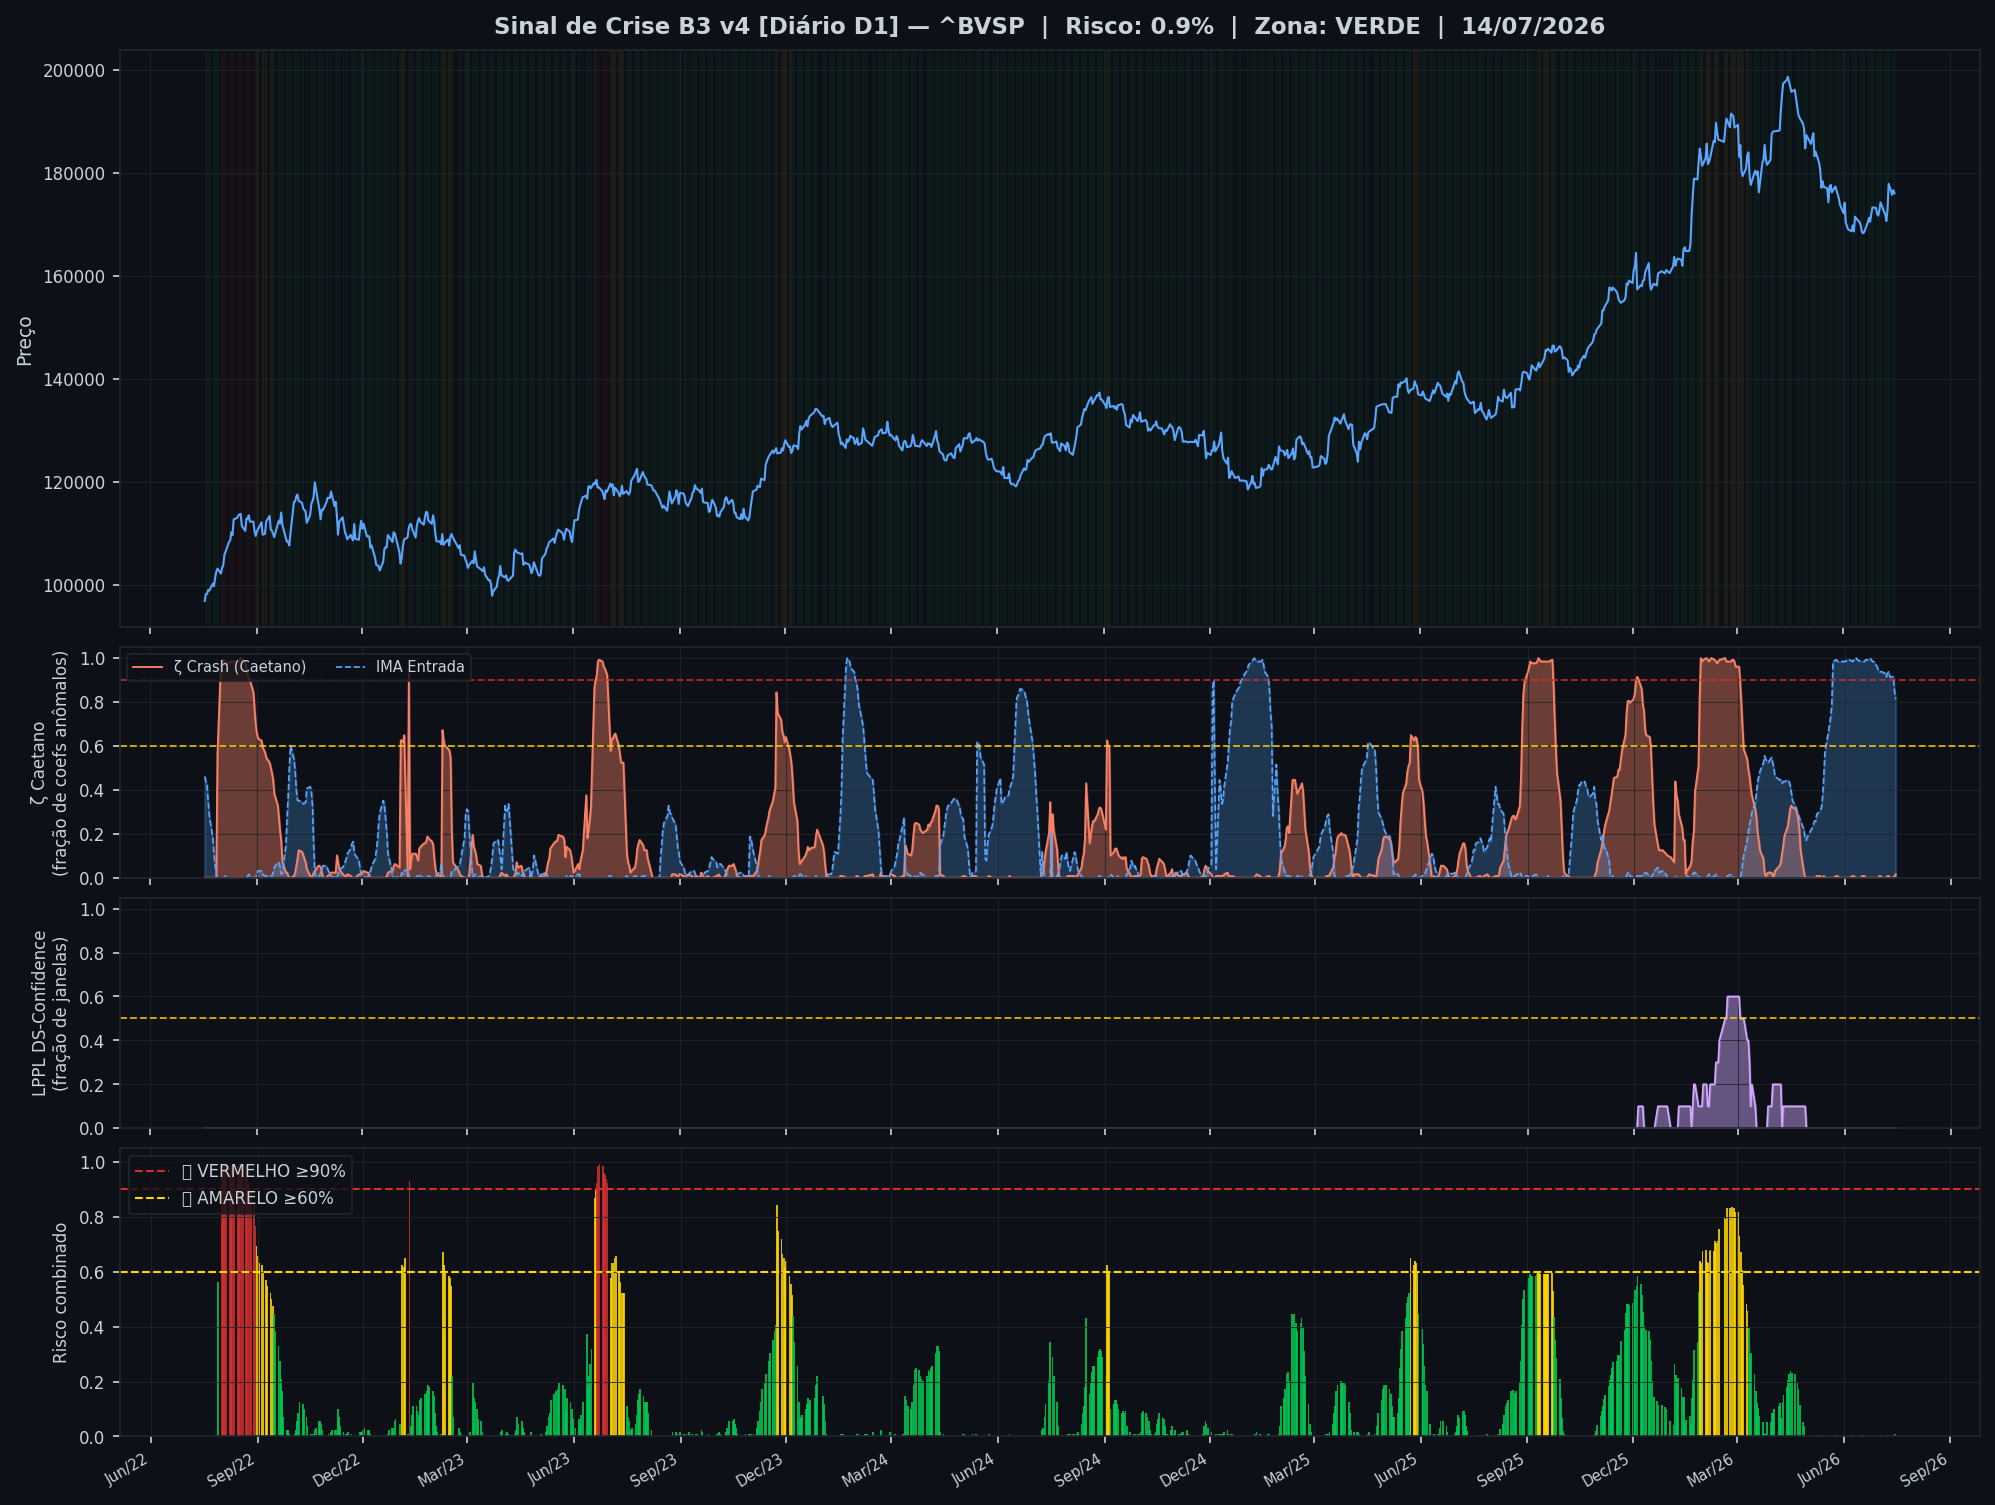
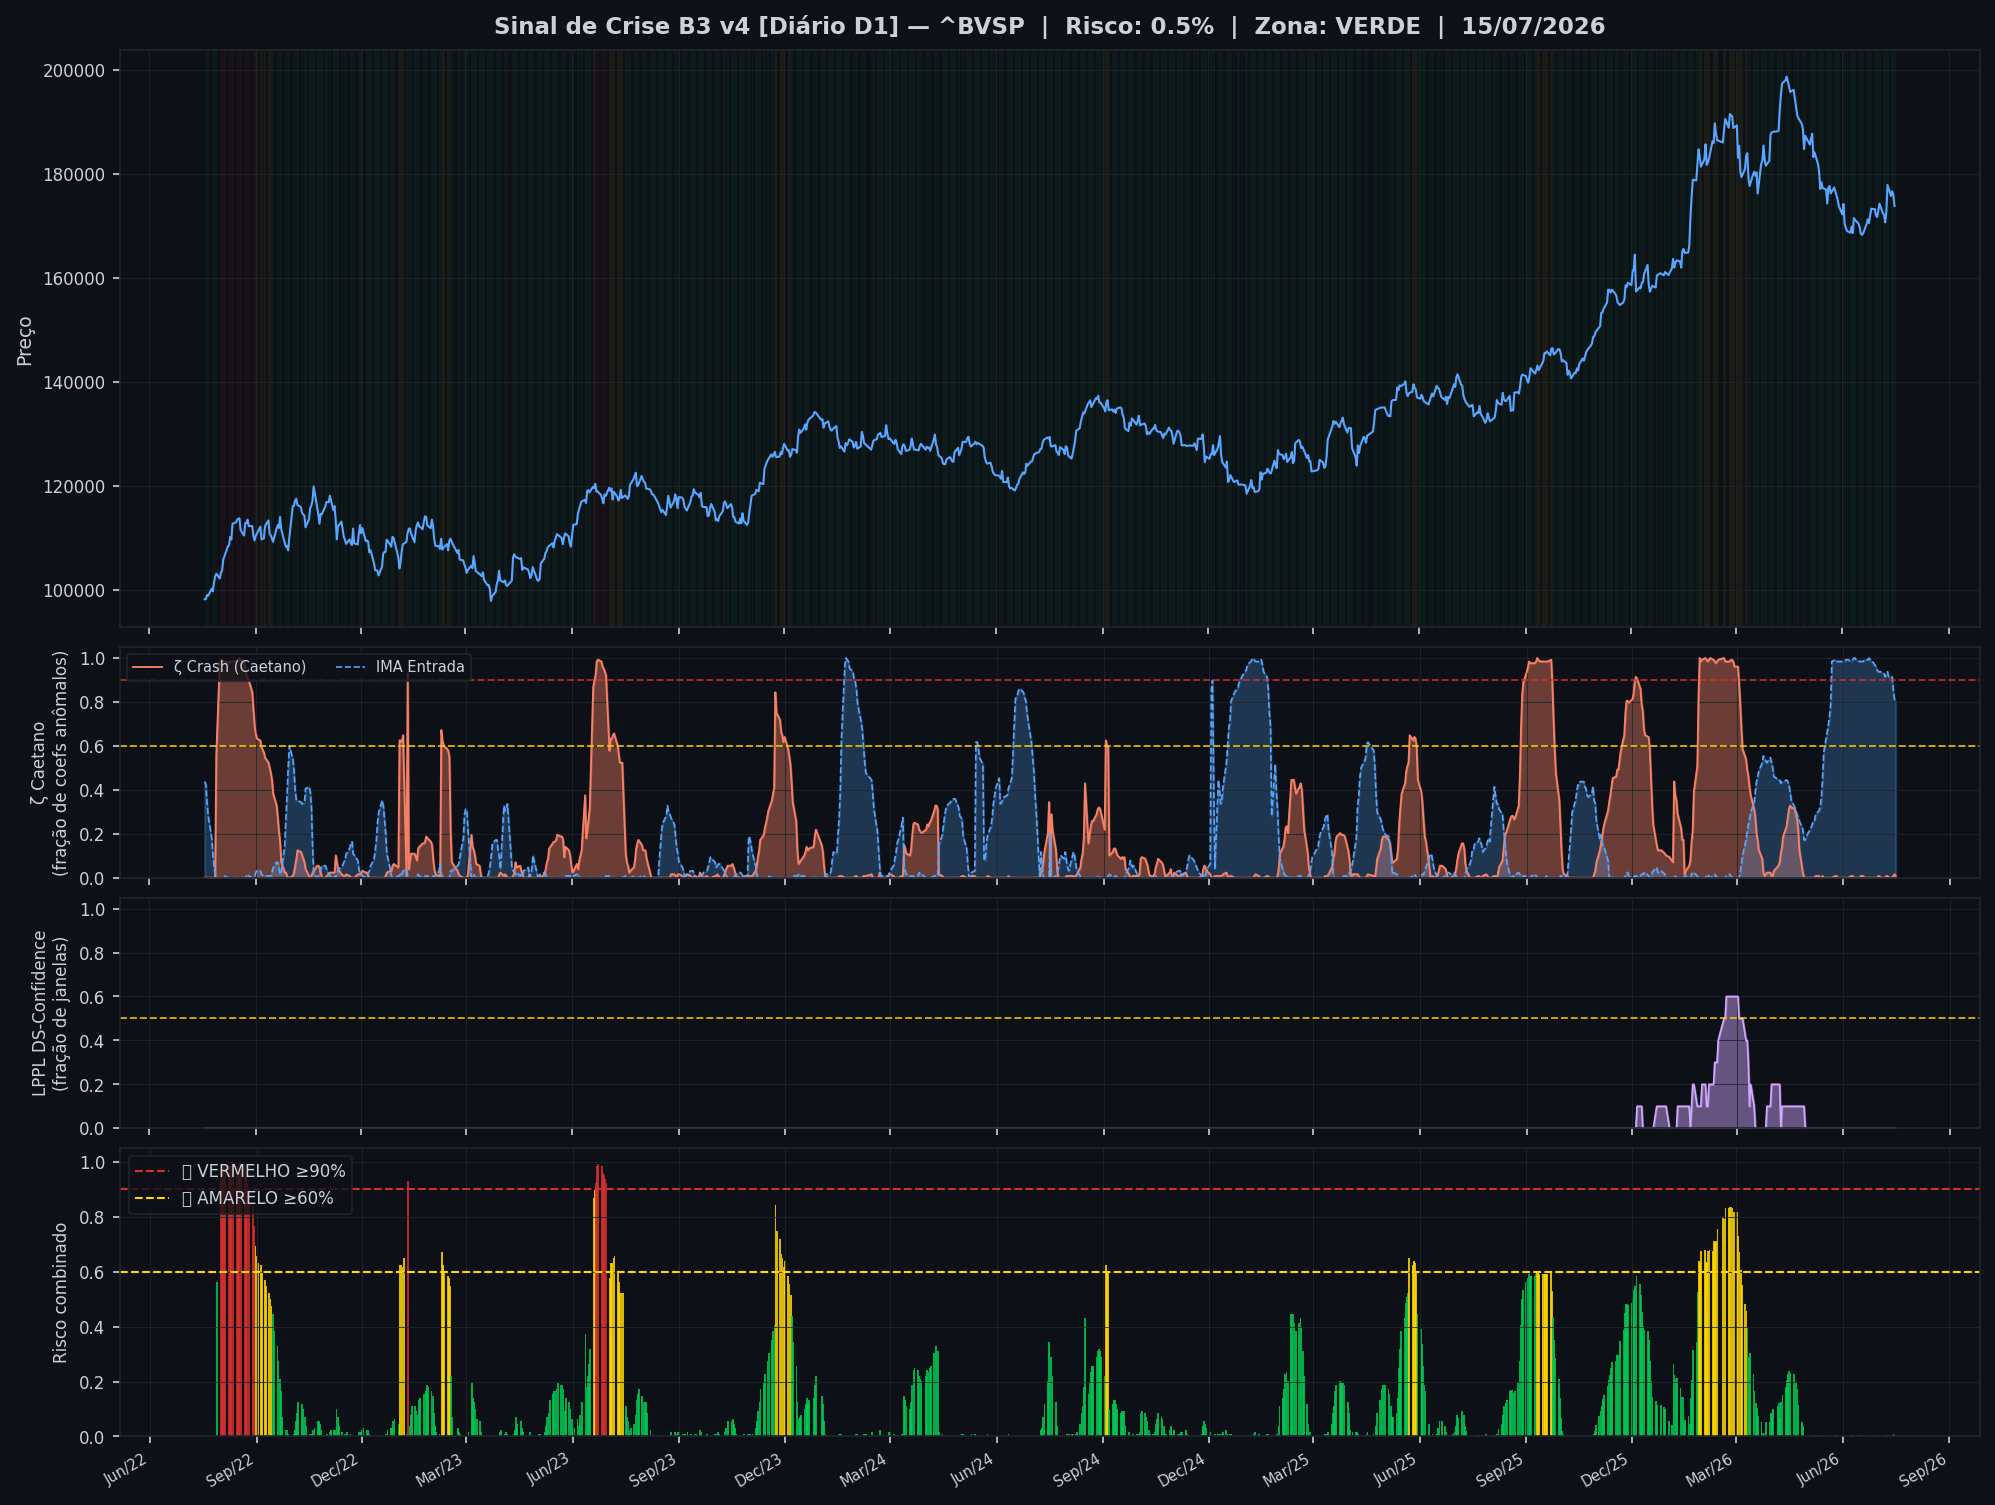
🤖 Auto: Sinal 16/07/2026 19:00

diff --git a/content/diario/2026-07-15.md b/content/diario/2026-07-15.md
@@ -1,0 +1,105 @@
+---
+title: "🟢 Diário 15/07/2026 — VERDE"
+date: 2026-07-16
+tags: [diario]
+---
+
+> [!success] 🟢 **VERDE** — Risco 0% · ＝ -0 p.p. vs leitura anterior
+> `░░░░░░░░░░░░░░░░░░░░`
+> Mercado sem sinais relevantes de estresse.
+
+
+| Indicador | Valor |
+|---|---|
+| 🔴 ζ Crash — severidade da queda em curso | **1%** |
+| 🔵 ζ Entrada — estrutura de fundo | 80% |
+| 🫧 LPPL DS-Confidence | 0% |
+| 📊 Ibovespa | 173.825 pts |
+
+![Gráfico do sinal](../graficos/sinal_diario.png)
+
+## Últimos 30 pregões
+
+| Data | Zona | Risco | IMA Crash | Entrada | LPPL |
+|---|---|---|---|---|---|
+| 2026-07-15 21:00 | 🟢 VERDE | **0%** | 1% | 80% | 0% |
+| 2026-07-14 21:00 | 🟢 VERDE | **1%** | 2% | 81% | 0% |
+| 2026-07-13 21:00 | 🟢 VERDE | **0%** | 1% | 85% | 0% |
+| 2026-07-12 21:00 | 🟢 VERDE | **0%** | 0% | 91% | 0% |
+| 2026-07-09 21:00 | 🟢 VERDE | **0%** | 0% | 91% | 0% |
+| 2026-07-08 21:00 | 🟢 VERDE | **0%** | 1% | 94% | 0% |
+| 2026-07-07 21:00 | 🟢 VERDE | **0%** | 1% | 93% | 0% |
+| 2026-07-06 21:00 | 🟢 VERDE | **0%** | 0% | 91% | 0% |
+| 2026-07-05 21:00 | 🟢 VERDE | **0%** | 0% | 93% | 0% |
+| 2026-07-02 21:00 | 🟢 VERDE | **0%** | 0% | 94% | 0% |
+| 2026-07-01 21:00 | 🟢 VERDE | **0%** | 1% | 94% | 0% |
+| 2026-06-30 21:00 | 🟢 VERDE | **0%** | 1% | 94% | 0% |
+| 2026-06-29 21:00 | 🟢 VERDE | **0%** | 0% | 95% | 0% |
+| 2026-06-28 21:00 | 🟢 VERDE | **0%** | 0% | 96% | 0% |
+| 2026-06-25 21:00 | 🟢 VERDE | **0%** | 0% | 98% | 0% |
+| 2026-06-24 21:00 | 🟢 VERDE | **0%** | 0% | 98% | 0% |
+| 2026-06-23 21:00 | 🟢 VERDE | **0%** | 0% | 99% | 0% |
+| 2026-06-22 21:00 | 🟢 VERDE | **0%** | 0% | 100% | 0% |
+| 2026-06-21 21:00 | 🟢 VERDE | **0%** | 0% | 99% | 0% |
+| 2026-06-18 21:00 | 🟢 VERDE | **0%** | 0% | 99% | 0% |
+| 2026-06-17 21:00 | 🟢 VERDE | **0%** | 1% | 98% | 0% |
+| 2026-06-16 21:00 | 🟢 VERDE | **0%** | 1% | 98% | 0% |
+| 2026-06-15 21:00 | 🟢 VERDE | **0%** | 1% | 98% | 0% |
+| 2026-06-14 21:00 | 🟢 VERDE | **0%** | 0% | 98% | 0% |
+| 2026-06-11 21:00 | 🟢 VERDE | **0%** | 0% | 99% | 0% |
+| 2026-06-10 21:00 | 🟢 VERDE | **0%** | 0% | 100% | 0% |
+| 2026-06-09 21:00 | 🟢 VERDE | **0%** | 0% | 100% | 0% |
+| 2026-06-08 21:00 | 🟢 VERDE | **0%** | 1% | 99% | 0% |
+| 2026-06-07 21:00 | 🟢 VERDE | **0%** | 1% | 98% | 0% |
+| 2026-06-04 21:00 | 🟢 VERDE | **0%** | 0% | 99% | 0% |
+
+## Monitor Multi-Ativo
+
+**0% dos ativos em tensão** (0🔴 0🟡) — quanto mais ativos disparam juntos, mais confiável o sinal.
+
+| Zona | Ativo | Setor | IMA Crash | IMA Entrada |
+|---|---|---|---|---|
+| 🟢 | **VALE** | Mineração | 0.0% | 53.9% |
+| 🟢 | **ITAUUNIBANCO** | Financeiro | 0.0% | 53.9% |
+| 🟢 | **PETROBRAS** | Petróleo | 0.0% | 53.9% |
+| 🟢 | **AXIA ENERGIA** | Energia | 0.0% | 53.9% |
+| 🟢 | **PETROBRAS** | Petróleo | 0.0% | 53.9% |
+| 🟢 | **BRADESCO** | Financeiro | 0.0% | 53.9% |
+| 🟢 | **SABESP** | Saneamento | 0.0% | 53.9% |
+| 🟢 | **ITAUSA** | Financeiro | 0.0% | 53.9% |
+| 🟢 | **B3** | Financeiro | 0.0% | 53.9% |
+| 🟢 | **BTGP BANCO** | Financeiro | 0.0% | 53.9% |
+| 🟢 | **AMBEV S/A** | Consumo | 0.0% | 53.9% |
+| 🟢 | **WEG** | Industrial | 0.0% | 53.9% |
+| 🟢 | **EMBRAER** | Outros | 0.0% | 53.9% |
+| 🟢 | **BRASIL** | Financeiro | 0.0% | 53.9% |
+| 🟢 | **ENEVA** | Energia | 0.0% | 53.9% |
+| 🟢 | **EQUATORIAL** | Energia | 0.0% | 53.9% |
+| 🟢 | **COPEL** | Energia | 0.0% | 53.9% |
+| 🟢 | **PRIO** | Petróleo | 0.0% | 53.9% |
+| 🟢 | **VIBRA** | Energia | 0.0% | 53.9% |
+| 🟢 | **LOCALIZA** | Aluguel | 0.0% | 53.9% |
+| 🟢 | **REDE D OR** | Saúde | 0.0% | 53.9% |
+| 🟢 | **ULTRAPAR** | Outros | 0.0% | 53.9% |
+| 🟢 | **GERDAU** | Siderurgia | 0.0% | 53.9% |
+| 🟢 | **SUZANO S.A.** | Papel/Celulose | 0.0% | 53.9% |
+| 🟢 | **BBSEGURIDADE** | Financeiro | 0.0% | 53.9% |
+| 🟢 | **TELEF BRASIL** | Outros | 0.0% | 53.9% |
+| 🟢 | **USD/BRL** | Câmbio | 0.0% | 42.2% |
+
+![Monitor multi-ativo](../graficos/multi_diario.png)
+
+*Página atualizada em 16/07/2026 19:00 BRT (leitura da barra de 2026-07-15 BRT).*
+
+> [!info]- Como interpretar (clique para expandir)
+> - **ζ Crash**: fração dos coeficientes wavelet acima do corte (Caetano & Yoneyama 2009). Escala absoluta: ζ=0,90 = 90% dos coeficientes anômalos — historicamente, quedas com ζ≥0,90 foram mais fundas e mais longas. **Mede a severidade do movimento em curso, não prevê o início da queda.**
+> - **ζ Entrada**: coeficientes negativos além do corte — estrutura de fundo, possível região de compra.
+> - **LPPL DS-Confidence**: fração de janelas (60–504 pregões) em que o modelo de bolha de Sornette produz um ajuste válido. 30% já é relevante; acima de 50% é forte evidência de estrutura de bolha.
+> - **Zonas com histerese**: o sinal só muda de zona ao cruzar o limiar de entrada, e só volta ao cruzar o de saída — evita flip-flop diário.
+
+
+---
+*Sinal de Crise B3 v4 · IMA Wavelet ([Caetano & Yoneyama, Physica-A 2007](https://doi.org/10.1016/j.physa.2007.03.054)) + LPPL DS-Confidence (Sornette, ETH-Zurich) · [Metodologia](metodologia) · [Histórico](historico)*
+
+> [!quote]- Aviso
+> Estudo acadêmico. Não constitui recomendação de investimento.

diff --git a/content/index.md b/content/index.md
@@ -8,19 +8,19 @@ tags: [home]
 
 Monitoramento diário e intraday do Ibovespa — **IMA Wavelet** (Prof. Marco Antonio Leonel Caetano, ITA/INSPER) + **LPPL DS-Confidence** (Prof. Didier Sornette, ETH-Zurich).
 
-*Última atualização: 16/07/2026 17:30 BRT · ^BVSP · Intraday 15min · v4*
+*Última atualização: 16/07/2026 19:00 BRT · ^BVSP · Diário D1 · v4*
 
-> [!success] 🟢 **VERDE** — Risco 0% · ＝ +0 p.p. vs leitura anterior
+> [!success] 🟢 **VERDE** — Risco 0% · ＝ -0 p.p. vs leitura anterior
 > `░░░░░░░░░░░░░░░░░░░░`
 > Mercado sem sinais relevantes de estresse.
 
 
 | Indicador | Valor |
 |---|---|
-| 🔴 ζ Crash — severidade da queda em curso | **0%** |
-| 🔵 ζ Entrada — estrutura de fundo | 79% |
+| 🔴 ζ Crash — severidade da queda em curso | **1%** |
+| 🔵 ζ Entrada — estrutura de fundo | 80% |
 | 🫧 LPPL DS-Confidence | 0% |
-| 📊 Ibovespa | 173.627 pts |
+| 📊 Ibovespa | 173.825 pts |
 
 **Multi-ativo:** 0% em tensão (0🔴 0🟡 de 27 ativos)
 
@@ -32,8 +32,13 @@ Monitoramento diário e intraday do Ibovespa — **IMA Wavelet** (Prof. Marco An
 
 | Data | Zona | Risco | IMA | LPPL |
 |---|---|---|---|---|
-| [16 Jul 2026](diario/2026-07-16) | 🟢 VERDE | **0%** | 0% | 0% |
-| [15 Jul 2026](diario/2026-07-15) | 🟢 VERDE | **56%** | 56% | 0% |
+| [15 Jul 2026](diario/2026-07-15) | 🟢 VERDE | **0%** | 1% | 0% |
+| [14 Jul 2026](diario/2026-07-14) | 🟢 VERDE | **1%** | 2% | 0% |
+| [13 Jul 2026](diario/2026-07-13) | 🟢 VERDE | **0%** | 1% | 0% |
+| [12 Jul 2026](diario/2026-07-12) | 🟢 VERDE | **0%** | 0% | 0% |
+| [09 Jul 2026](diario/2026-07-09) | 🟢 VERDE | **0%** | 0% | 0% |
+| [08 Jul 2026](diario/2026-07-08) | 🟢 VERDE | **0%** | 1% | 0% |
+| [07 Jul 2026](diario/2026-07-07) | 🟢 VERDE | **0%** | 1% | 0% |
 
 ## Navegação
 

diff --git a/content/historico.md b/content/historico.md
@@ -7,6 +7,7 @@ tags: [historico]
 
 | Data | Modo | Zona | Risco | IMA | LPPL |
 |---|---|---|---|---|---|
+| 2026-07-15 | diario | 🟢 VERDE | 0% | 1% | 0% |
 | 2026-07-16 16:45 | intraday | 🟢 VERDE | 0% | 0% | 0% |
 | 2026-07-16 16:30 | intraday | 🟢 VERDE | 0% | 0% | 0% |
 | 2026-07-16 16:15 | intraday | 🟢 VERDE | 0% | 0% | 0% |
